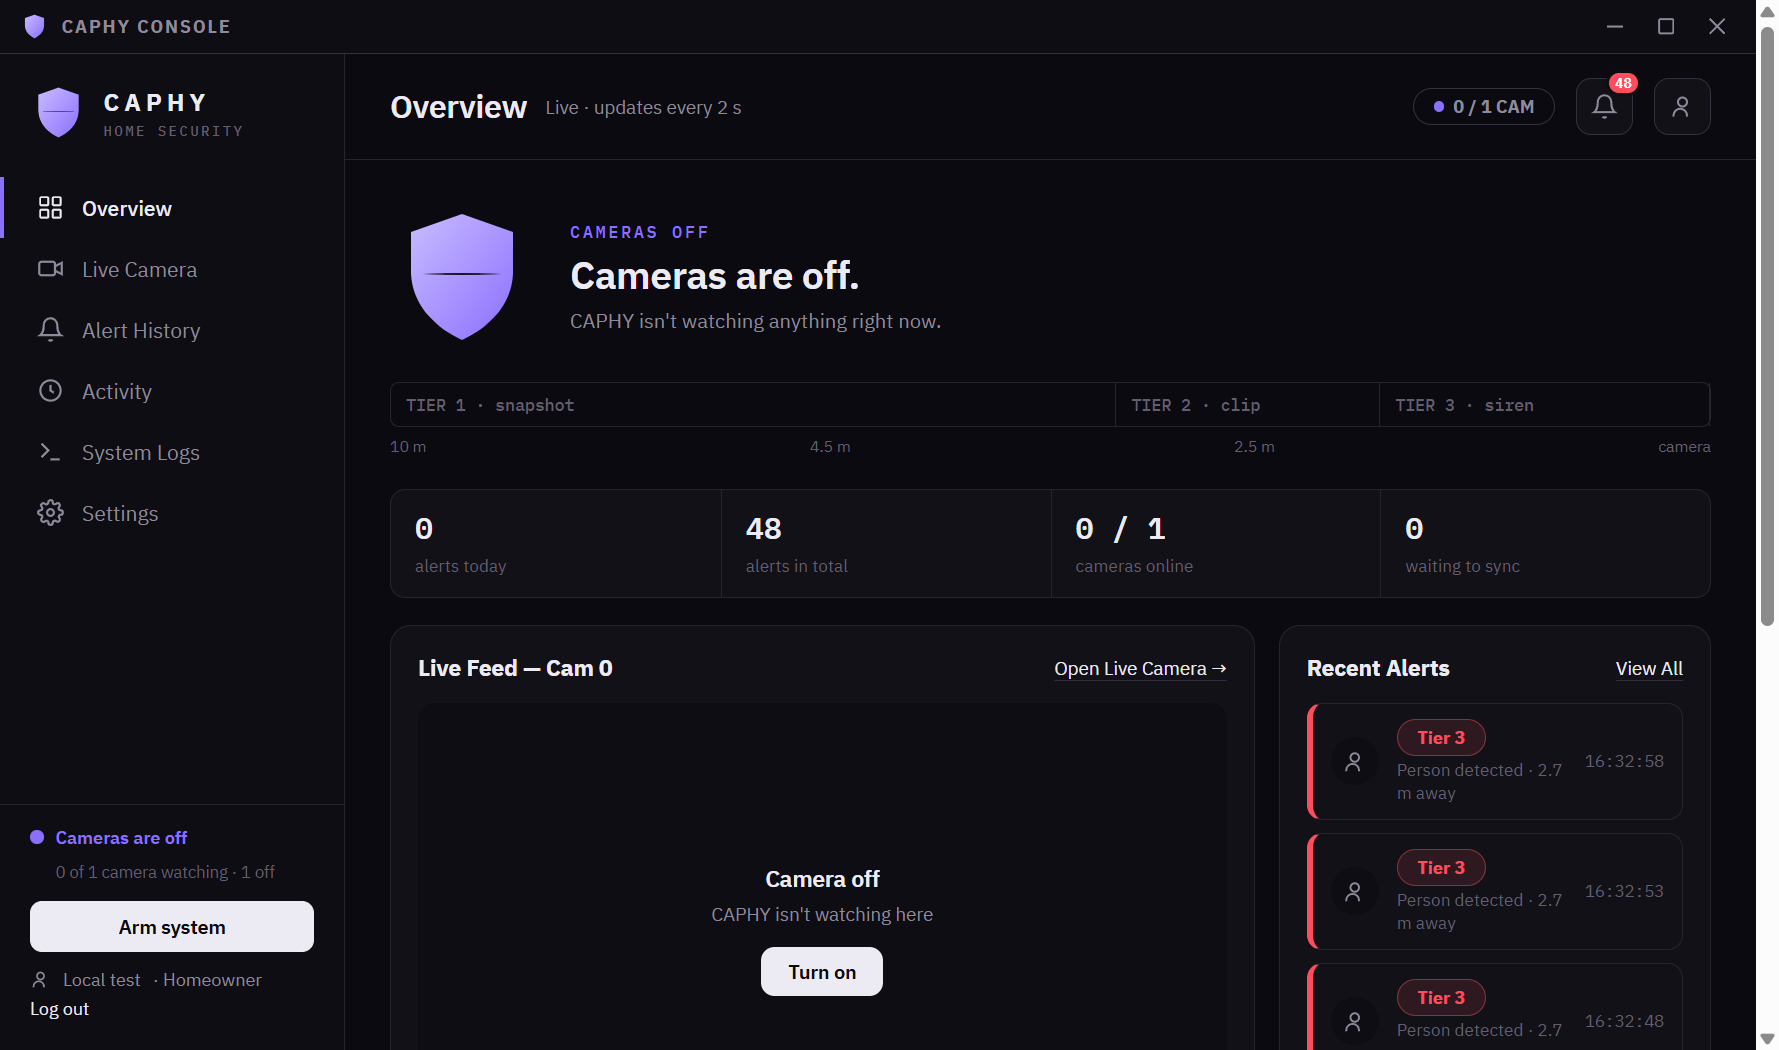
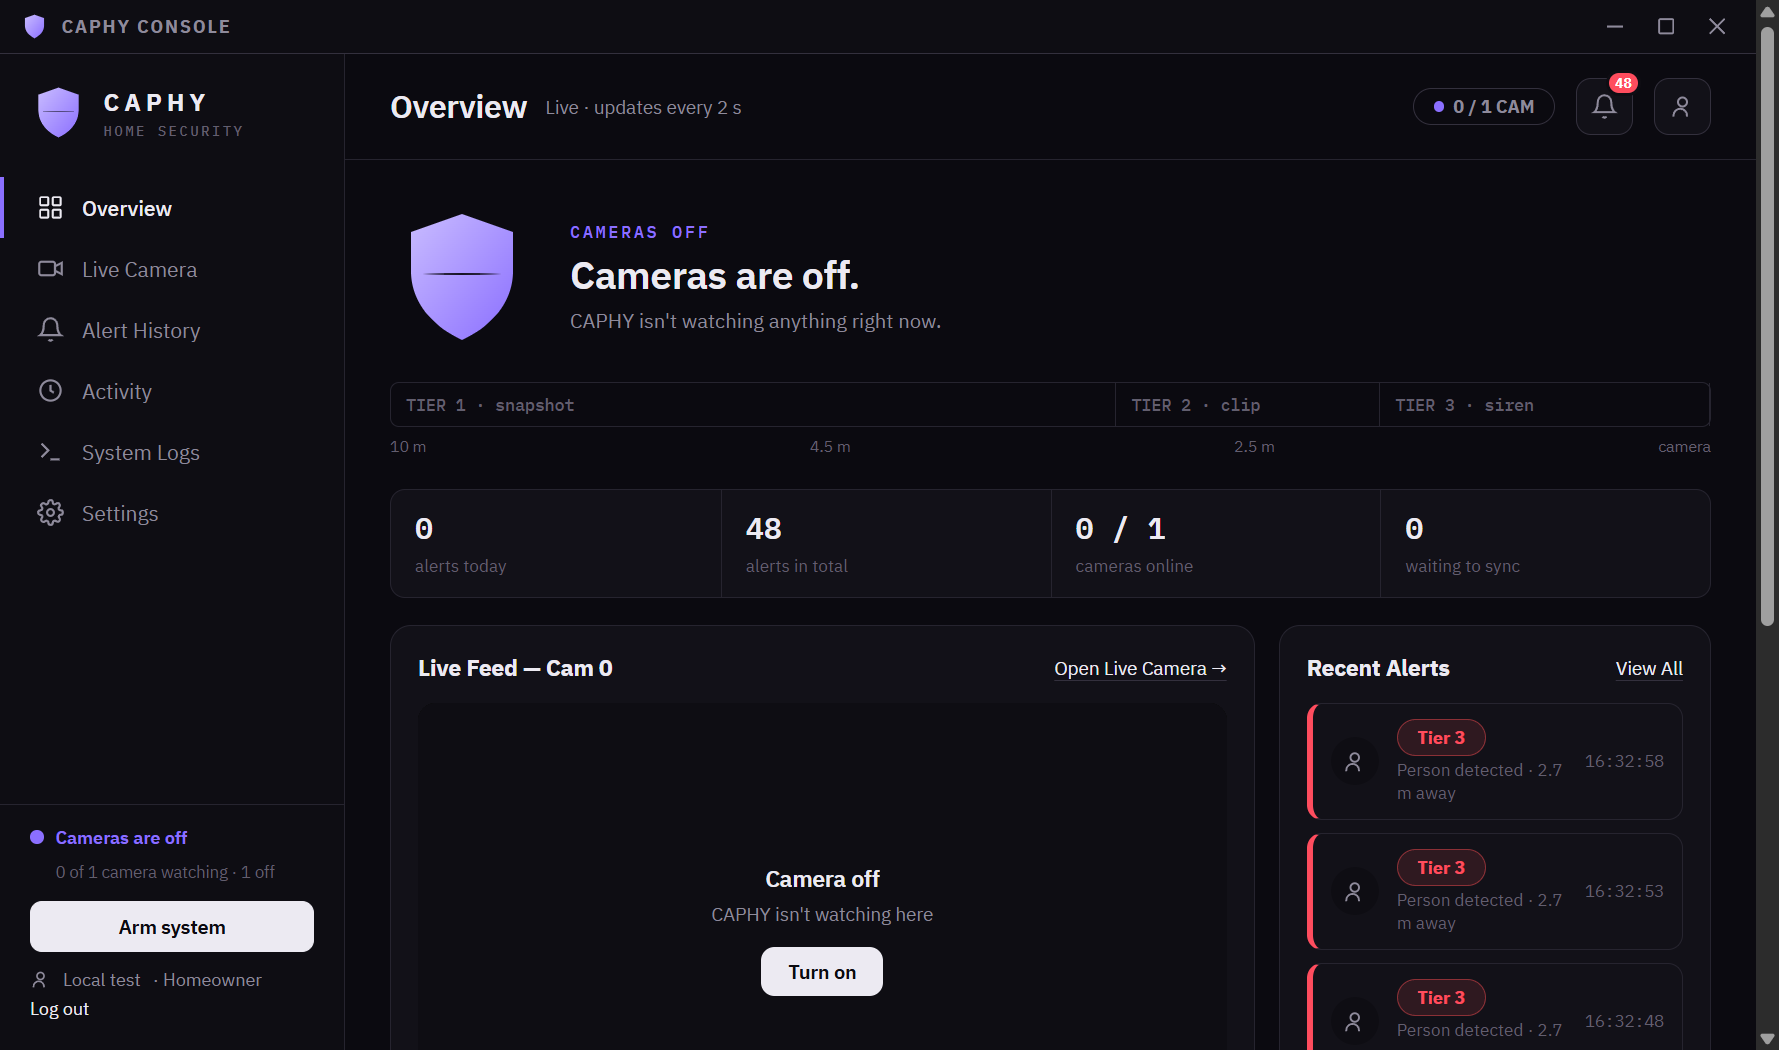
Dark scrollbars and form controls (color-scheme: dark)
What: color-scheme:dark on :root, so scrollbars, <select> lists and
native controls draw dark.
Why: the desktop window test showed a light Windows scrollbar down the
side of the dark console.
Files: web/static/style.css, docs/UI_UPDATE_NOTES.md,
docs/screenshots/19-desktop-window-overview.png (retaken with the dark
scrollbar)

Changed region(s): [[0.9893, 0.0, 1.0, 1.0]]

diff --git a/web/static/style.css b/web/static/style.css
@@ -7,6 +7,10 @@
 @font-face{font-family:"IBM Plex Mono";font-weight:500;font-display:swap;src:url(fonts/IBMPlexMono-Medium.woff2) format("woff2")}
 @font-face{font-family:"IBM Plex Mono";font-weight:600 800;font-display:swap;src:url(fonts/IBMPlexMono-SemiBold.woff2) format("woff2")}
 :root{
+  /* the browser's own parts (scrollbars, <select> lists, checkboxes) are
+     drawn dark too. Was: the light default scrollbar down the side of the
+     desktop window and every long page. */
+  color-scheme:dark;
   /* CAPHY brand: flat ink surfaces + 1px lines. The logo is the status
      light, so the four status colours below mean status ONLY:
        violet = clear, yellow = watching (Tier 1-2 / camera down),

diff --git a/docs/UI_UPDATE_NOTES.md b/docs/UI_UPDATE_NOTES.md
@@ -522,6 +522,21 @@ focus landing on something hidden).
 
 ---
 
+## 20. Dark scrollbars and form controls (`color-scheme:dark`) (Oct 29)
+
+- **What:** `color-scheme:dark` on `:root`, so the browser's own parts
+  (scrollbars, `<select>` lists, native checkboxes and pickers) draw dark.
+- **Why:** found in the desktop window test. A light-grey Windows
+  scrollbar ran down the side of the dark console, and in any browser on
+  long pages.
+- **Files:** `web/static/style.css`
+- **Tested:** the desktop window again (19/19): the scrollbar is now a
+  dark track with a grey thumb. The login page looks unchanged (its
+  inputs keep their own colours), `color-scheme` computes to `dark`, and
+  there are no page errors.
+
+---
+
 ## Noticed, not changed
 
 - When the server is down, the top banner says "You're offline - CAPHY is
